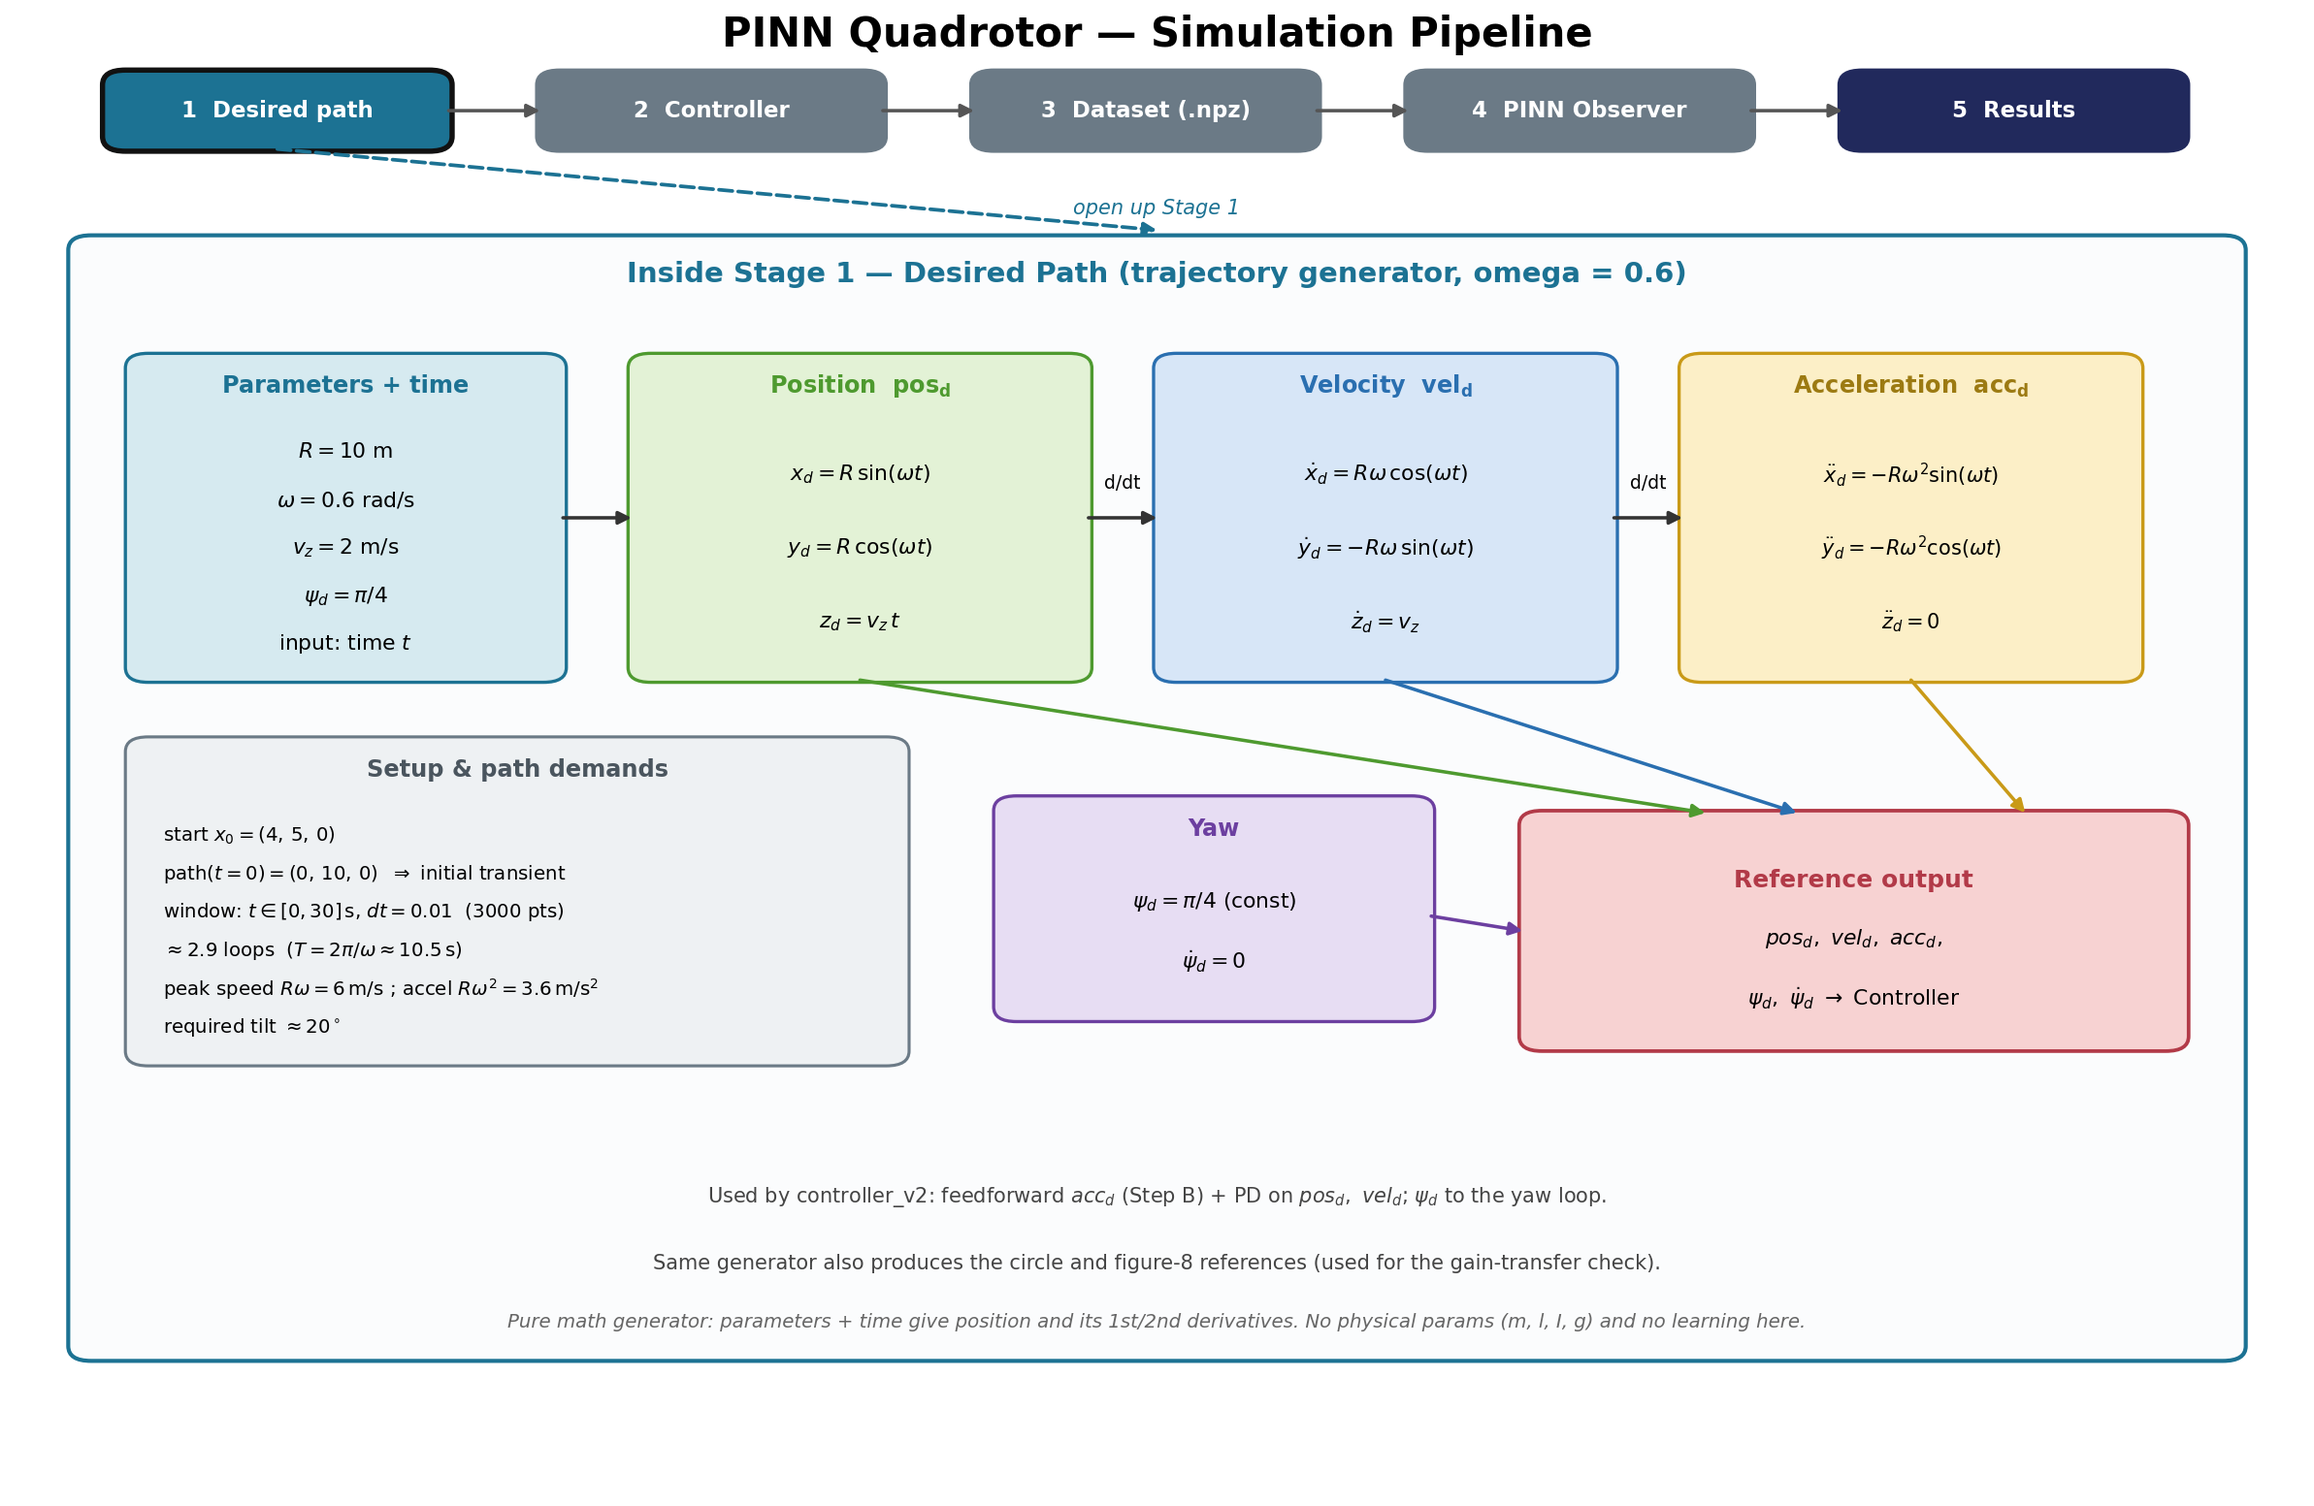
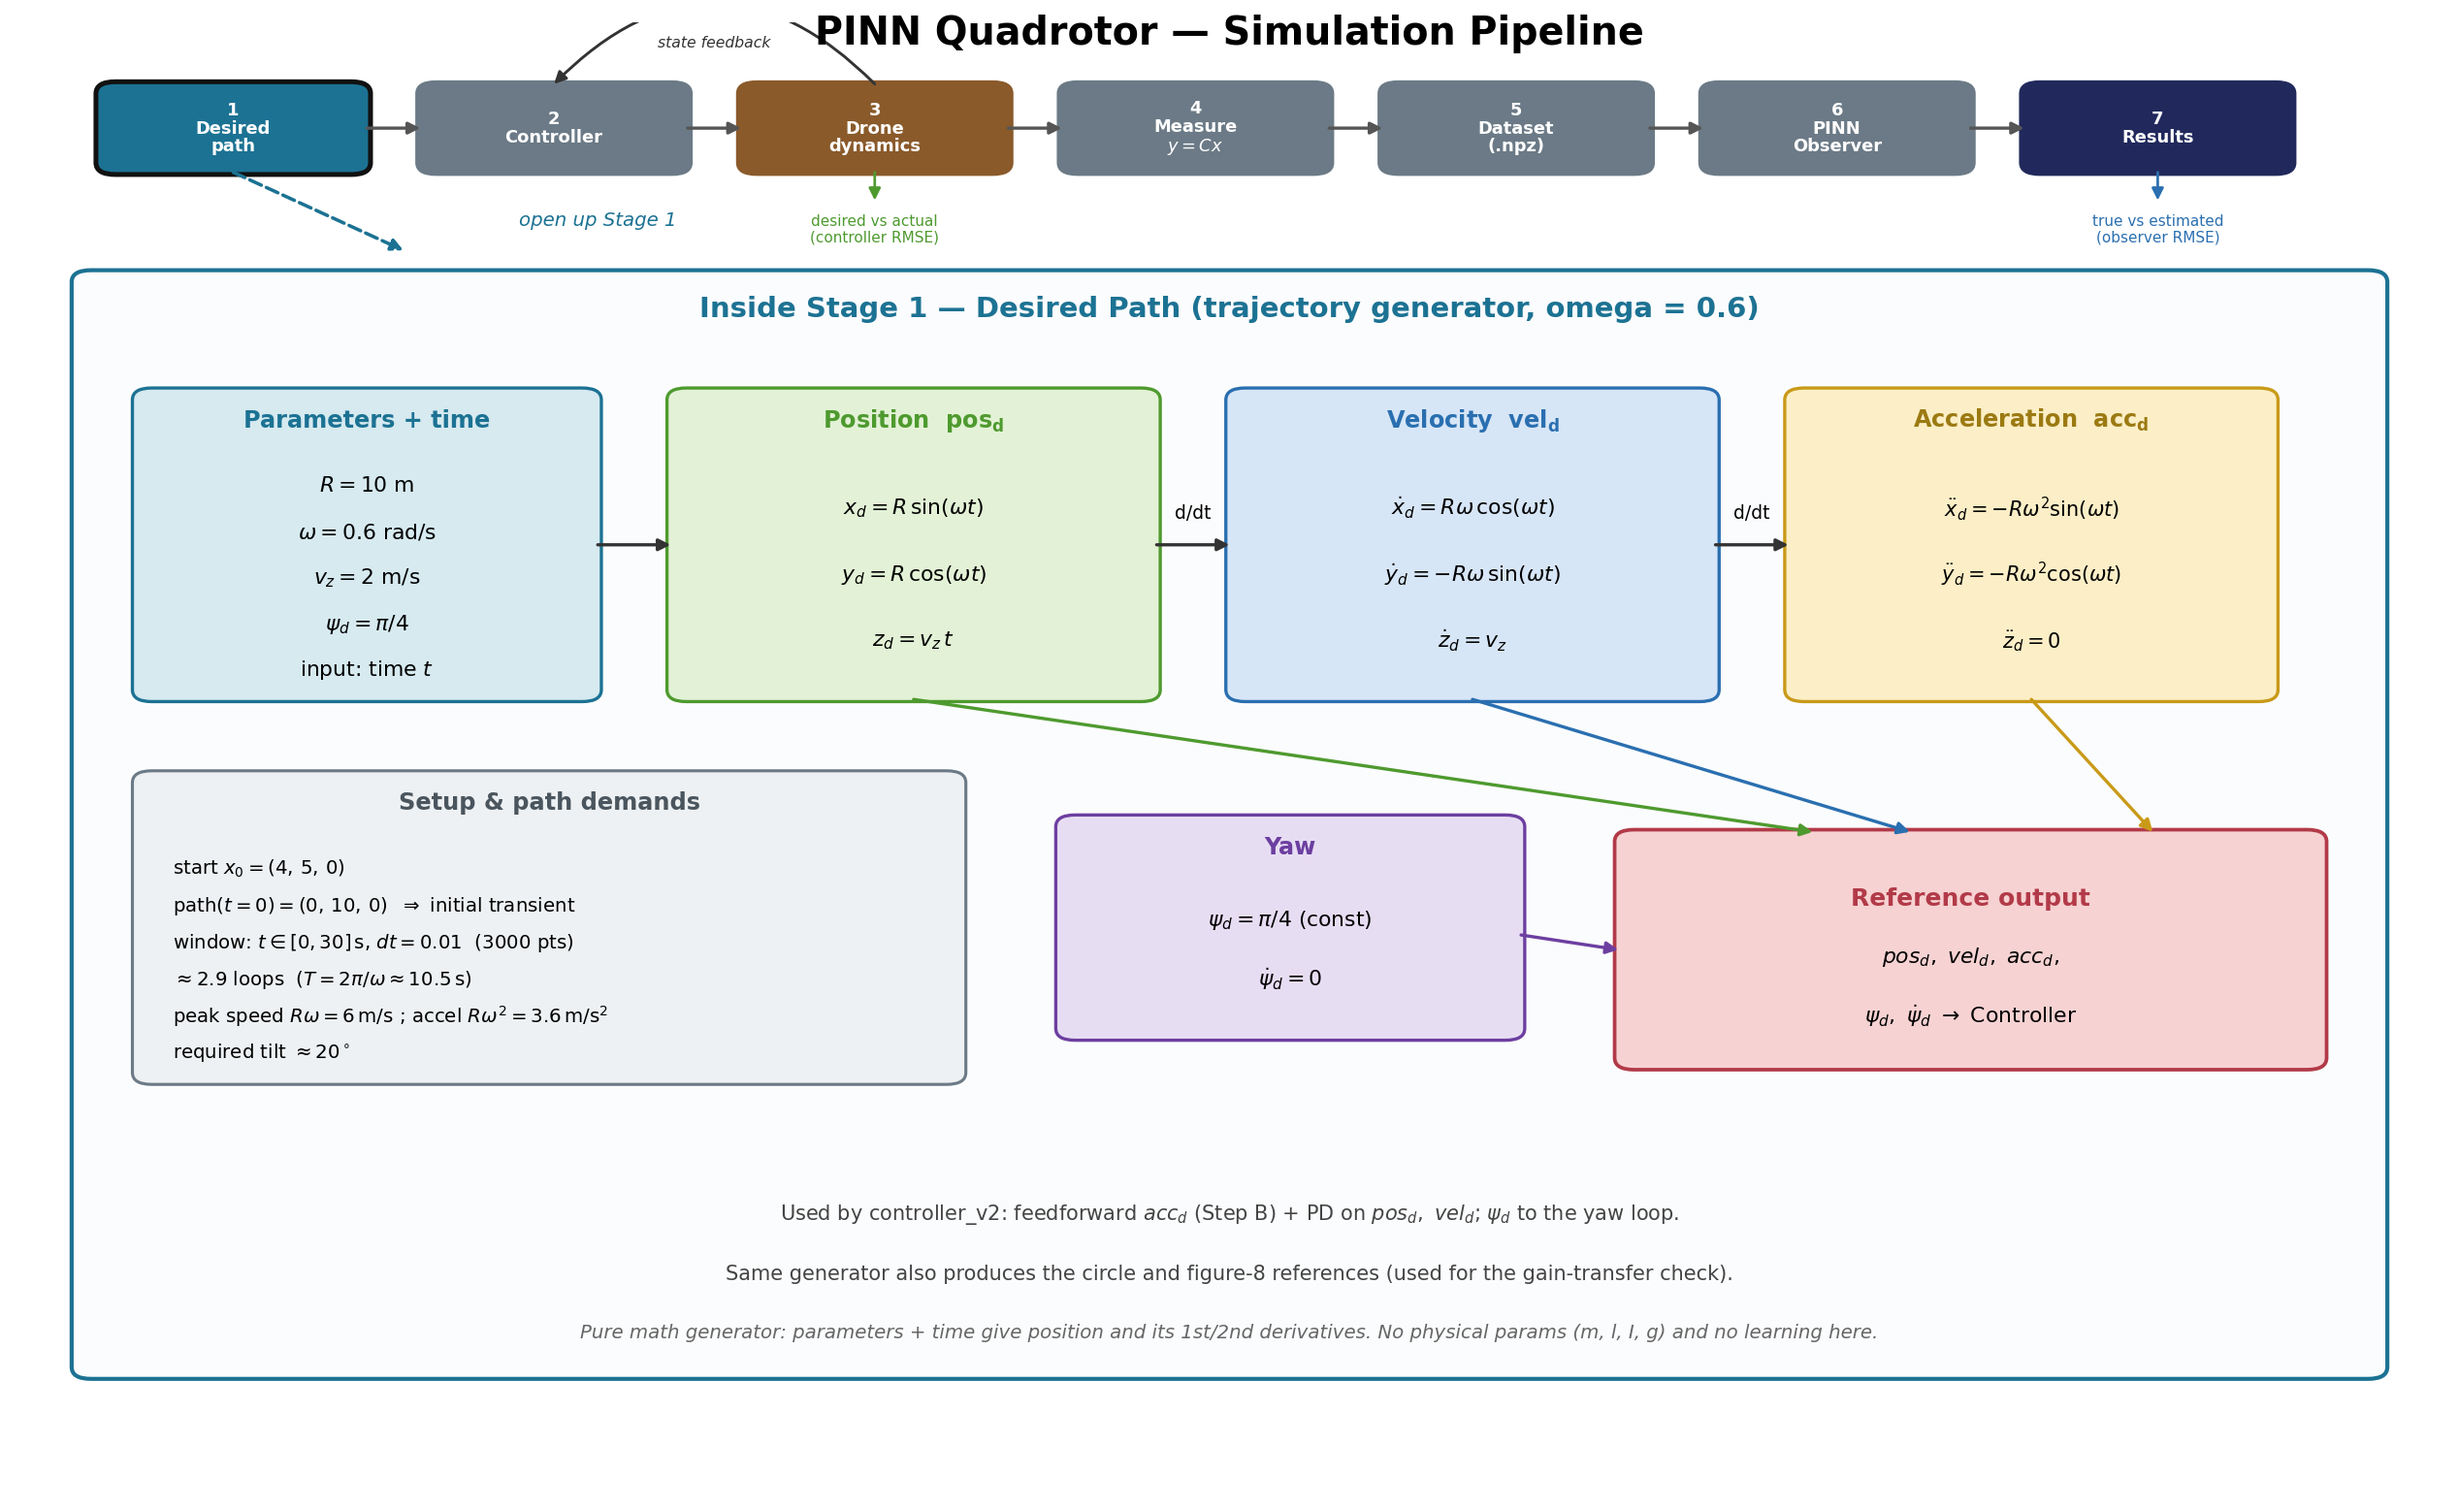
Expand pipeline path (Controller<->Dynamics loop, measurement model, dataset prep, eval taps) on Desired Path figure

diff --git a/docs/make_desired_path_fig.py b/docs/make_desired_path_fig.py
@@ -1,14 +1,14 @@
-"""Detailed 'Desired Path' model figure (Stage 1). omega = 0.6."""
+"""Desired Path (Stage 1) figure with the EXPANDED pipeline path on top. omega=0.6."""
 import matplotlib
 matplotlib.use("Agg")
 import matplotlib.pyplot as plt
-from matplotlib.patches import FancyBboxPatch, Circle, FancyArrowPatch
+from matplotlib.patches import FancyBboxPatch, FancyArrowPatch
 import numpy as np
 
-fig, ax = plt.subplots(figsize=(16, 10.5))
+fig, ax = plt.subplots(figsize=(17, 10.5))
 ax.set_xlim(0, 100); ax.set_ylim(0, 100); ax.axis("off")
 
-TEAL="#1C7293"; GREY="#6b7a86"; MID="#21295C"
+TEAL="#1C7293"; GREY="#6b7a86"; DYN="#8a5a2b"; MID="#21295C"
 P_F="#D6EAF0"; P_E="#1C7293"
 POS_F="#E3F2D6"; POS_E="#4E9A2F"
 VEL_F="#D7E6F7"; VEL_E="#2A6FB0"
@@ -18,63 +18,76 @@ SET_F="#EEF1F3"; SET_E="#6b7a86"
 OUT_F="#F7D2D2"; OUT_E="#B23A48"
 
 def rbox(x,y,w,h,fc,ec,lw=1.6):
-    ax.add_patch(FancyBboxPatch((x,y),w,h,boxstyle="round,pad=0.15,rounding_size=1.0",fc=fc,ec=ec,lw=lw))
-def arrow(x1,y1,x2,y2,color="#444",lw=1.7,ls="-"):
-    ax.add_patch(FancyArrowPatch((x1,y1),(x2,y2),arrowstyle="-|>",mutation_scale=13,color=color,lw=lw,linestyle=ls,shrinkA=0,shrinkB=0))
+    ax.add_patch(FancyBboxPatch((x,y),w,h,boxstyle="round,pad=0.15,rounding_size=0.8",fc=fc,ec=ec,lw=lw))
+def arrow(x1,y1,x2,y2,color="#444",lw=1.6,ls="-",rad=None):
+    cs = f"arc3,rad={rad}" if rad is not None else "arc3,rad=0"
+    ax.add_patch(FancyArrowPatch((x1,y1),(x2,y2),arrowstyle="-|>",mutation_scale=12,color=color,lw=lw,linestyle=ls,shrinkA=0,shrinkB=0,connectionstyle=cs))
 
-ax.text(50,98,"PINN Quadrotor — Simulation Pipeline",ha="center",fontsize=20,fontweight="bold")
-ov=[("1  Desired path",TEAL),("2  Controller",GREY),("3  Dataset (.npz)",GREY),
-    ("4  PINN Observer",GREY),("5  Results",MID)]
-xs=[4,23,42,61,80]; wov=15
-for (label,c),x in zip(ov,xs):
-    hl=2.6 if "Desired" in label else 1.6
-    rbox(x,91,wov,5.2,c,"#111" if "Desired" in label else c,lw=hl)
-    ax.text(x+wov/2,93.6,label,ha="center",va="center",color="white",fontsize=11,fontweight="bold")
-for i in range(4): arrow(xs[i]+wov,93.6,xs[i+1],93.6,color="#555")
-arrow(4+wov/2,91,50,85.5,color=TEAL,lw=1.8,ls="--")
-ax.text(50,87,"open up Stage 1",ha="center",va="center",fontsize=10,color=TEAL,fontstyle="italic")
+ax.text(50,98.5,"PINN Quadrotor — Simulation Pipeline",ha="center",fontsize=19,fontweight="bold")
+
+# ---- expanded pipeline strip (7 nodes) ----
+labels=["1\nDesired\npath","2\nController","3\nDrone\ndynamics","4\nMeasure\n$y=Cx$",
+        "5\nDataset\n(.npz)","6\nPINN\nObserver","7\nResults"]
+fills =[TEAL,GREY,DYN,GREY,GREY,GREY,MID]
+lefts=np.linspace(3.5,82.7,7); w=11; cy=92.8
+cx=lefts+w/2
+for x,lab,fc in zip(lefts,labels,fills):
+    hl=2.4 if lab.startswith("1") else 1.4
+    rbox(x,89.8,w,6.0,fc,"#111" if lab.startswith("1") else fc,lw=hl)
+    ax.text(x+w/2,cy,lab,ha="center",va="center",color="white",fontsize=8.6,fontweight="bold",linespacing=1.05)
+for i in range(6):
+    arrow(lefts[i]+w,cy,lefts[i+1],cy,color="#555")
+# closed loop: dynamics -> controller (state feedback)
+arrow(cx[2],95.8,cx[1],95.8,color="#333",rad=0.5,lw=1.4)
+ax.text((cx[1]+cx[2])/2,98.3,"state feedback",ha="center",fontsize=7.5,color="#333",fontstyle="italic")
+# evaluation taps
+arrow(cx[2],89.8,cx[2],87.9,color=POS_E,lw=1.3)
+ax.text(cx[2],87.0,"desired vs actual\n(controller RMSE)",ha="center",va="top",fontsize=7.3,color=POS_E)
+arrow(cx[6],89.8,cx[6],87.9,color=VEL_E,lw=1.3)
+ax.text(cx[6],87.0,"true vs estimated\n(observer RMSE)",ha="center",va="top",fontsize=7.3,color=VEL_E)
+# open up stage 1
+arrow(cx[0],89.8,16,84.5,color=TEAL,lw=1.7,ls="--")
+ax.text(24,86.2,"open up Stage 1",ha="center",fontsize=9.5,color=TEAL,fontstyle="italic")
 
 
-# ---------- panel ----------
-rbox(2.5,9,95,76,"#FBFCFD",TEAL,lw=2.0)
-ax.text(50,82,"Inside Stage 1 — Desired Path (trajectory generator, omega = 0.6)",
+# ---------- panel (Desired Path detail) ----------
+rbox(2.5,8,95,75,"#FBFCFD",TEAL,lw=2.0)
+ax.text(50,80,"Inside Stage 1 — Desired Path (trajectory generator, omega = 0.6)",
         ha="center",fontsize=14,fontweight="bold",color=TEAL)
 
-# top row: Parameters -> Position -> Velocity -> Acceleration
-rbox(5,55,19,22,P_F,P_E,lw=1.6)
-ax.text(14.5,74.5,"Parameters + time",ha="center",fontsize=11.5,fontweight="bold",color=P_E)
-for y,txt in zip(np.linspace(70.5,57.5,5),
+rbox(5,54,19,21,P_F,P_E,lw=1.6)
+ax.text(14.5,72.5,"Parameters + time",ha="center",fontsize=11.5,fontweight="bold",color=P_E)
+for y,txt in zip(np.linspace(68.5,56,5),
                  [r"$R = 10\ \mathrm{m}$",r"$\omega = 0.6\ \mathrm{rad/s}$",
                   r"$v_z = 2\ \mathrm{m/s}$",r"$\psi_d = \pi/4$",r"input: time $t$"]):
     ax.text(14.5,y,txt,ha="center",va="center",fontsize=10.5)
 
-rbox(27,55,20,22,POS_F,POS_E,lw=1.6)
-ax.text(37,74.5,r"Position  $\mathbf{pos_d}$",ha="center",fontsize=11.5,fontweight="bold",color=POS_E)
-for y,txt in zip(np.linspace(69,59,3),
+rbox(27,54,20,21,POS_F,POS_E,lw=1.6)
+ax.text(37,72.5,r"Position  $\mathbf{pos_d}$",ha="center",fontsize=11.5,fontweight="bold",color=POS_E)
+for y,txt in zip(np.linspace(67,58,3),
                  [r"$x_d = R\,\sin(\omega t)$",r"$y_d = R\,\cos(\omega t)$",r"$z_d = v_z\, t$"]):
     ax.text(37,y,txt,ha="center",va="center",fontsize=10.5)
 
-rbox(50,55,20,22,VEL_F,VEL_E,lw=1.6)
-ax.text(60,74.5,r"Velocity  $\mathbf{vel_d}$",ha="center",fontsize=11.5,fontweight="bold",color=VEL_E)
-for y,txt in zip(np.linspace(69,59,3),
+rbox(50,54,20,21,VEL_F,VEL_E,lw=1.6)
+ax.text(60,72.5,r"Velocity  $\mathbf{vel_d}$",ha="center",fontsize=11.5,fontweight="bold",color=VEL_E)
+for y,txt in zip(np.linspace(67,58,3),
                  [r"$\dot{x}_d = R\omega\,\cos(\omega t)$",r"$\dot{y}_d = -R\omega\,\sin(\omega t)$",r"$\dot{z}_d = v_z$"]):
     ax.text(60,y,txt,ha="center",va="center",fontsize=10.5)
 
-rbox(73,55,20,22,ACC_F,ACC_E,lw=1.6)
-ax.text(83,74.5,r"Acceleration  $\mathbf{acc_d}$",ha="center",fontsize=11.5,fontweight="bold",color="#9c7a12")
-for y,txt in zip(np.linspace(69,59,3),
+rbox(73,54,20,21,ACC_F,ACC_E,lw=1.6)
+ax.text(83,72.5,r"Acceleration  $\mathbf{acc_d}$",ha="center",fontsize=11.5,fontweight="bold",color="#9c7a12")
+for y,txt in zip(np.linspace(67,58,3),
                  [r"$\ddot{x}_d = -R\omega^2\sin(\omega t)$",r"$\ddot{y}_d = -R\omega^2\cos(\omega t)$",r"$\ddot{z}_d = 0$"]):
     ax.text(83,y,txt,ha="center",va="center",fontsize=10)
 
-arrow(24,66,27,66,color="#333")
-arrow(47,66,50,66,color="#333"); ax.text(48.5,68,"d/dt",ha="center",fontsize=9)
-arrow(70,66,73,66,color="#333"); ax.text(71.5,68,"d/dt",ha="center",fontsize=9)
+arrow(24,64.5,27,64.5,color="#333"); arrow(47,64.5,50,64.5,color="#333"); arrow(70,64.5,73,64.5,color="#333")
+ax.text(48.5,66.3,"d/dt",ha="center",fontsize=9); ax.text(71.5,66.3,"d/dt",ha="center",fontsize=9)
 
 
-# Setup & path demands (context box, lower-left)
-rbox(5,29,34,22,SET_F,SET_E,lw=1.5)
-ax.text(22,48.5,"Setup & path demands",ha="center",fontsize=11.5,fontweight="bold",color="#4a555e")
-for y,txt in zip(np.linspace(44.5,31.5,6),
+# Setup & path demands
+rbox(5,28,34,21,SET_F,SET_E,lw=1.5)
+ax.text(22,46.5,"Setup & path demands",ha="center",fontsize=11.5,fontweight="bold",color="#4a555e")
+for y,txt in zip(np.linspace(42.5,30,6),
                  [r"start $x_0 = (4,\,5,\,0)$",
                   r"path$(t{=}0) = (0,\,10,\,0)$  $\Rightarrow$ initial transient",
                   r"window: $t \in [0,30]\,$s, $dt=0.01$  (3000 pts)",
@@ -83,28 +96,24 @@ for y,txt in zip(np.linspace(44.5,31.5,6),
                   r"required tilt $\approx 20^\circ$"]):
     ax.text(6.5,y,txt,ha="left",va="center",fontsize=9.5)
 
-# Yaw block
-rbox(43,32,19,15,YAW_F,YAW_E,lw=1.6)
-ax.text(52.5,44.5,"Yaw",ha="center",fontsize=11.5,fontweight="bold",color=YAW_E)
-ax.text(52.5,40,r"$\psi_d = \pi/4$ (const)",ha="center",va="center",fontsize=10.5)
-ax.text(52.5,36,r"$\dot{\psi}_d = 0$",ha="center",va="center",fontsize=10.5)
+rbox(43,31,19,15,YAW_F,YAW_E,lw=1.6)
+ax.text(52.5,43.5,"Yaw",ha="center",fontsize=11.5,fontweight="bold",color=YAW_E)
+ax.text(52.5,39,r"$\psi_d = \pi/4$ (const)",ha="center",va="center",fontsize=10.5)
+ax.text(52.5,35,r"$\dot{\psi}_d = 0$",ha="center",va="center",fontsize=10.5)
 
-# Reference output
-rbox(66,30,29,16,OUT_F,OUT_E,lw=1.8)
-ax.text(80.5,41.5,"Reference output",ha="center",va="center",fontsize=12,fontweight="bold",color=OUT_E)
-ax.text(80.5,37.5,r"$pos_d,\ vel_d,\ acc_d,$",ha="center",va="center",fontsize=10.5)
-ax.text(80.5,33.5,r"$\psi_d,\ \dot{\psi}_d\ \rightarrow$ Controller",ha="center",va="center",fontsize=10.5)
+rbox(66,29,29,16,OUT_F,OUT_E,lw=1.8)
+ax.text(80.5,40.5,"Reference output",ha="center",va="center",fontsize=12,fontweight="bold",color=OUT_E)
+ax.text(80.5,36.5,r"$pos_d,\ vel_d,\ acc_d,$",ha="center",va="center",fontsize=10.5)
+ax.text(80.5,32.5,r"$\psi_d,\ \dot{\psi}_d\ \rightarrow$ Controller",ha="center",va="center",fontsize=10.5)
 
-arrow(37,55,74,46,color=POS_E)
-arrow(60,55,78,46,color=VEL_E)
-arrow(83,55,88,46,color="#C99A18")
-arrow(62,39,66,38,color=YAW_E)
+arrow(37,54,74,45,color=POS_E); arrow(60,54,78,45,color=VEL_E)
+arrow(83,54,88,45,color="#C99A18"); arrow(62,38,66,37,color=YAW_E)
 
-ax.text(50,20,r"Used by controller_v2: feedforward $acc_d$ (Step B) + PD on $pos_d,\ vel_d$; $\psi_d$ to the yaw loop.",
+ax.text(50,19,r"Used by controller_v2: feedforward $acc_d$ (Step B) + PD on $pos_d,\ vel_d$; $\psi_d$ to the yaw loop.",
         ha="center",va="center",fontsize=10,color="#444")
-ax.text(50,15.5,"Same generator also produces the circle and figure-8 references (used for the gain-transfer check).",
+ax.text(50,15,"Same generator also produces the circle and figure-8 references (used for the gain-transfer check).",
         ha="center",va="center",fontsize=10,color="#444")
-ax.text(50,11.5,"Pure math generator: parameters + time give position and its 1st/2nd derivatives. No physical params (m, l, I, g) and no learning here.",
+ax.text(50,11,"Pure math generator: parameters + time give position and its 1st/2nd derivatives. No physical params (m, l, I, g) and no learning here.",
         ha="center",va="center",fontsize=9.5,color="#666",fontstyle="italic")
 
 plt.tight_layout()
